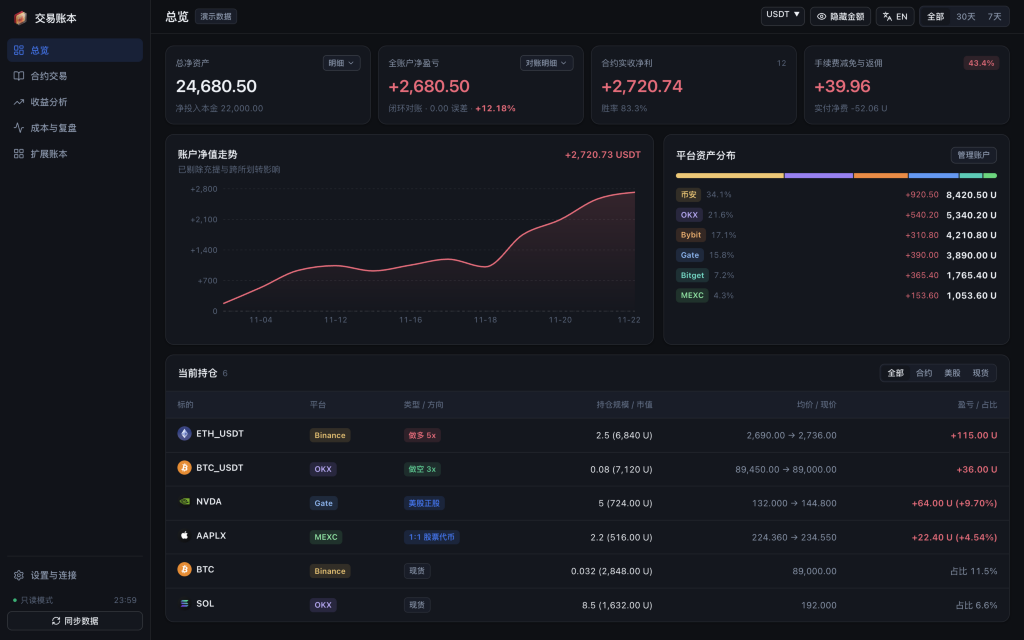
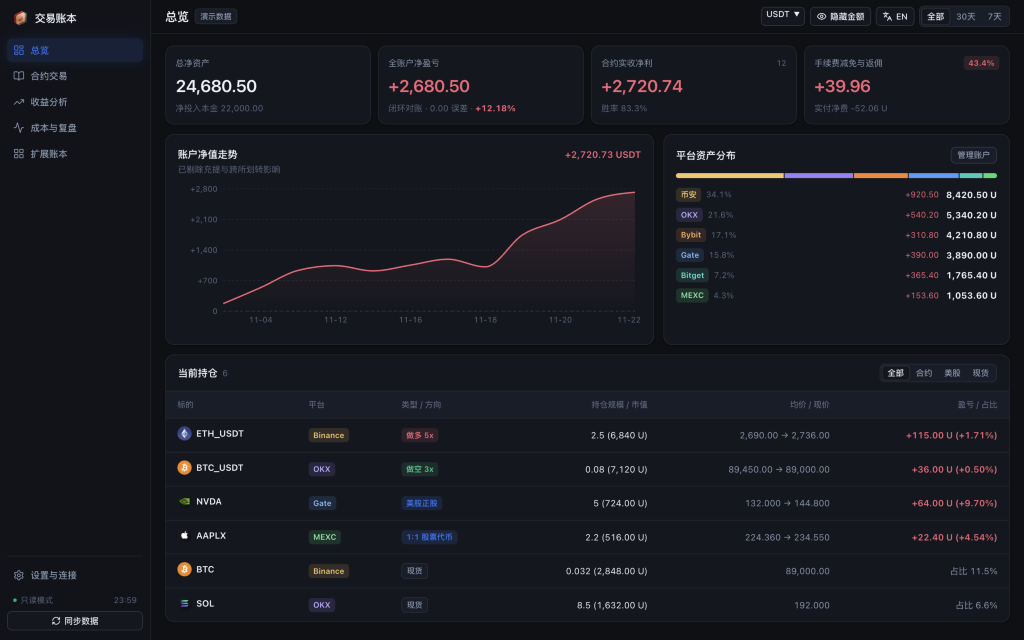
chore(release): release v1.1.0 with bundle splitting, edge-case polish, and updated Velvet UI screenshots

diff --git a/web/src/App.tsx b/web/src/App.tsx
@@ -388,7 +388,11 @@ export default function App() {
                         }}
                         onToggleDemo={async enabled => {
                           await api.setDemoMode(enabled)
-                          await loadAll()
+                          const st = await api.authStatus().catch(() => authStatus)
+                          setAuthStatus(st)
+                          if (!st.require_setup && st.authenticated !== false) {
+                            await loadAll()
+                          }
                         }}
                       />
                     )}

diff --git a/web/vite.config.ts b/web/vite.config.ts
@@ -13,5 +13,20 @@ export default defineConfig({
   build: {
     outDir: 'dist',
     emptyOutDir: true,
+    rollupOptions: {
+      output: {
+        manualChunks(id) {
+          if (id.includes('node_modules/recharts') || id.includes('node_modules/d3-')) {
+            return 'vendor-charts'
+          }
+          if (id.includes('node_modules/lucide-react')) {
+            return 'vendor-icons'
+          }
+          if (id.includes('node_modules/react') || id.includes('node_modules/scheduler')) {
+            return 'vendor-react'
+          }
+        },
+      },
+    },
   },
 })

diff --git a/web/src/components/TopBar.tsx b/web/src/components/TopBar.tsx
@@ -115,12 +115,13 @@ export function TopBar({
 
         {page !== 'settings' && (
           <SegmentedPills
-            value={rangeKey as 'all' | '30d' | '7d'}
+            value={rangeKey}
             onChange={rk => onChangeRange(rk)}
             options={[
               { value: 'all', label: t('range_all') },
               { value: '30d', label: t('range_30d') },
               { value: '7d', label: t('range_7d') },
+              ...(/^\d{4}-\d{2}$/.test(rangeKey) ? [{ value: rangeKey, label: rangeKey }] : []),
             ]}
           />
         )}

diff --git a/web/src/lib/currency.tsx b/web/src/lib/currency.tsx
@@ -55,8 +55,11 @@ function buildHelpers(code: CurrencyCode, fx: FxRatesPayload): CurrencyContextVa
   const isUsdt = code === 'USDT'
 
   const resolveDecimals = (decimals?: number) => {
+    if (code === 'JPY') {
+      return typeof decimals === 'number' && decimals > 2 ? 1 : 0
+    }
     if (typeof decimals === 'number') {
-      return code === 'JPY' && decimals === 2 ? 0 : decimals
+      return decimals
     }
     return opt.defaultDecimals
   }

diff --git a/web/src/components/SegmentedPills.tsx b/web/src/components/SegmentedPills.tsx
@@ -30,7 +30,10 @@ export function SegmentedPills<T extends string>({
   useLayoutEffect(() => {
     const sync = () => {
       const btn = btnRefs.current[value]
-      if (!btn) return
+      if (!btn) {
+        setGlider(g => (g.ready ? { ...g, ready: false } : g))
+        return
+      }
       const w = btn.offsetWidth
       const l = btn.offsetLeft
       if (w > 0) {

diff --git a/backend/src/opentradeledger/api/app.py b/backend/src/opentradeledger/api/app.py
@@ -164,7 +164,7 @@ def create_app(
             return await call_next(request)
 
         token = request.cookies.get(AUTH_COOKIE_NAME)
-        st = auth_manager.get_status(token, demo_mode=bool(demo_mode))
+        st = auth_manager.get_status(token, demo_mode=bool(ledger_service.demo_mode))
         if not st["authenticated"] or st["require_setup"]:
             return JSONResponse(
                 status_code=401,
@@ -199,7 +199,7 @@ def create_app(
     @app.get("/api/v1/auth/status")
     async def auth_status(request: Request) -> dict[str, Any]:
         token = request.cookies.get(AUTH_COOKIE_NAME)
-        return auth_manager.get_status(token, demo_mode=bool(demo_mode))
+        return auth_manager.get_status(token, demo_mode=bool(ledger_service.demo_mode))
 
     @app.post("/api/v1/auth/setup")
     async def auth_setup(body: AuthSetupRequest) -> Response:
@@ -208,7 +208,7 @@ def create_app(
         except AuthValidationError as exc:
             return JSONResponse(status_code=400, content={"detail": str(exc)})
         token, ttl = auth_manager.issue_session_token(remember=body.remember)
-        st = auth_manager.get_status(token, demo_mode=bool(demo_mode))
+        st = auth_manager.get_status(token, demo_mode=bool(ledger_service.demo_mode))
         resp = JSONResponse(content={"ok": True, **st})
         _set_session_cookie(resp, token, ttl, body.remember)
         return resp
@@ -219,7 +219,7 @@ def create_app(
             auth_manager.skip_setup()
         except AuthValidationError as exc:
             return JSONResponse(status_code=400, content={"detail": str(exc)})
-        st = auth_manager.get_status(None, demo_mode=bool(demo_mode))
+        st = auth_manager.get_status(None, demo_mode=bool(ledger_service.demo_mode))
         return JSONResponse(content={"ok": True, **st})
 
     @app.post("/api/v1/auth/login")
@@ -235,14 +235,14 @@ def create_app(
             return JSONResponse(status_code=401, content={"detail": str(exc)})
 
         token, ttl = auth_manager.issue_session_token(remember=body.remember)
-        st = auth_manager.get_status(token, demo_mode=bool(demo_mode))
+        st = auth_manager.get_status(token, demo_mode=bool(ledger_service.demo_mode))
         resp = JSONResponse(content={"ok": True, **st})
         _set_session_cookie(resp, token, ttl, body.remember)
         return resp
 
     @app.post("/api/v1/auth/logout")
     async def auth_logout() -> Response:
-        st = auth_manager.get_status(None, demo_mode=bool(demo_mode))
+        st = auth_manager.get_status(None, demo_mode=bool(ledger_service.demo_mode))
         resp = JSONResponse(content={"ok": True, **st})
         resp.delete_cookie(key=AUTH_COOKIE_NAME, path="/")
         return resp
@@ -250,7 +250,7 @@ def create_app(
     @app.post("/api/v1/auth/change-password")
     async def auth_change_password(body: AuthChangePasswordRequest, request: Request) -> Response:
         cur_tok = request.cookies.get(AUTH_COOKIE_NAME)
-        if not auth_manager.is_request_allowed(cur_tok, demo_mode=bool(demo_mode)):
+        if not auth_manager.is_request_allowed(cur_tok, demo_mode=bool(ledger_service.demo_mode)):
             return JSONResponse(status_code=401, content={"detail": "Authentication required"})
         try:
             auth_manager.change_password(
@@ -267,7 +267,7 @@ def create_app(
             return JSONResponse(status_code=400, content={"detail": str(exc)})
 
         token, ttl = auth_manager.issue_session_token(remember=body.remember)
-        st = auth_manager.get_status(token, demo_mode=bool(demo_mode))
+        st = auth_manager.get_status(token, demo_mode=bool(ledger_service.demo_mode))
         resp = JSONResponse(content={"ok": True, **st})
         _set_session_cookie(resp, token, ttl, body.remember)
         return resp
@@ -275,7 +275,7 @@ def create_app(
     @app.post("/api/v1/auth/disable")
     async def auth_disable_password(body: AuthDisableRequest, request: Request) -> Response:
         cur_tok = request.cookies.get(AUTH_COOKIE_NAME)
-        if not auth_manager.is_request_allowed(cur_tok, demo_mode=bool(demo_mode)):
+        if not auth_manager.is_request_allowed(cur_tok, demo_mode=bool(ledger_service.demo_mode)):
             return JSONResponse(status_code=401, content={"detail": "Authentication required"})
         try:
             auth_manager.disable_password(body.current_password, client_key=_client_key(request))
@@ -287,7 +287,7 @@ def create_app(
         except AuthValidationError as exc:
             return JSONResponse(status_code=400, content={"detail": str(exc)})
 
-        st = auth_manager.get_status(None, demo_mode=bool(demo_mode))
+        st = auth_manager.get_status(None, demo_mode=bool(ledger_service.demo_mode))
         resp = JSONResponse(content={"ok": True, **st})
         resp.delete_cookie(key=AUTH_COOKIE_NAME, path="/")
         return resp

diff --git a/backend/src/opentradeledger/core/ledger_service.py b/backend/src/opentradeledger/core/ledger_service.py
@@ -941,12 +941,28 @@ class LedgerService:
         whole_net = round(float(wa.get("gate_net_pnl_usd") or 0.0) + plugin_extra_pnl, 2)
         summary = legacy_report.get("summary") or {}
 
+        _en_reconcile_map = {
+            "futures_net": "Futures Realized Net PnL (incl. Rebates & Funding)",
+            "copy_trading": "Copy Trading Combined Net PnL",
+            "stock": "Equities & Tokenized Stocks Net PnL",
+            "spot_cashflow": "Spot / Earn / Bonus & Dust Adjustments",
+            "unrealized": "Open Positions Unrealized PnL",
+            "easicoin": "EasiCoin Account Net PnL",
+            "binance": "Binance Account Net PnL",
+            "bitget": "Bitget Account Net PnL",
+            "mexc": "MEXC Account Net PnL",
+        }
         reconcile_items = [
             {
                 "key": str(it.get("key") or idx),
-                "label": str(it.get("label_zh") or ""),
+                "label": str(
+                    it.get("label")
+                    or _en_reconcile_map.get(str(it.get("key") or ""))
+                    or it.get("label_zh")
+                    or ""
+                ),
                 "label_zh": str(it.get("label_zh") or ""),
-                "detail": str(it.get("detail_zh") or ""),
+                "detail": str(it.get("detail") or it.get("detail_zh") or ""),
                 "detail_zh": str(it.get("detail_zh") or ""),
                 "amount_usd": round(float(it.get("amount_usd") or 0.0), 2),
             }

diff --git a/backend/src/opentradeledger/__init__.py b/backend/src/opentradeledger/__init__.py
@@ -1,5 +1,5 @@
 """OpenTradeLedger (交易账本) — Local-first, read-only multi-exchange trade ledger."""
 
-__version__ = "1.0.0"
+__version__ = "1.1.0"
 __app_name__ = "OpenTradeLedger"
 __app_name_zh__ = "交易账本"

diff --git a/CONTRIBUTING.md b/CONTRIBUTING.md
@@ -43,14 +43,18 @@ class ExampleAdapter(BaseExchangeAdapter):
         ...
 
     async def test_connection(self, cred: ExchangeCredentialRecord) -> dict[str, Any]:
-        ...
+        client = self.create_client(cred)
+        try:
+            ...
+        finally:
+            await client.aclose()
 ```
 
-Register the adapter in `AdapterRegistry.default()`.
+Register the adapter in `build_default_registry()`.
 
 ### 3. Optional: Add Env Var Mapping & Brand Color
 - Add `EXAMPLE_API_KEY` / `EXAMPLE_API_SECRET` placeholders to `.env.example` and `vault.py`'s `import_from_dotenv()`.
-- Optionally add a brand accent CSS variable `--venue-example` in `web/src/styles/theme.css` (unconfigured venues automatically fall back to a clean neutral badge).
+- Optionally add brand accent CSS variables `--v-example-bg` and `--v-example-fg` in `web/src/styles/theme.css` (unconfigured venues automatically fall back to a clean neutral badge).
 
 ### 4. Write Tests & Run the Quality Gate
 Add unit tests in `backend/tests/test_adapters_registry.py` covering:
